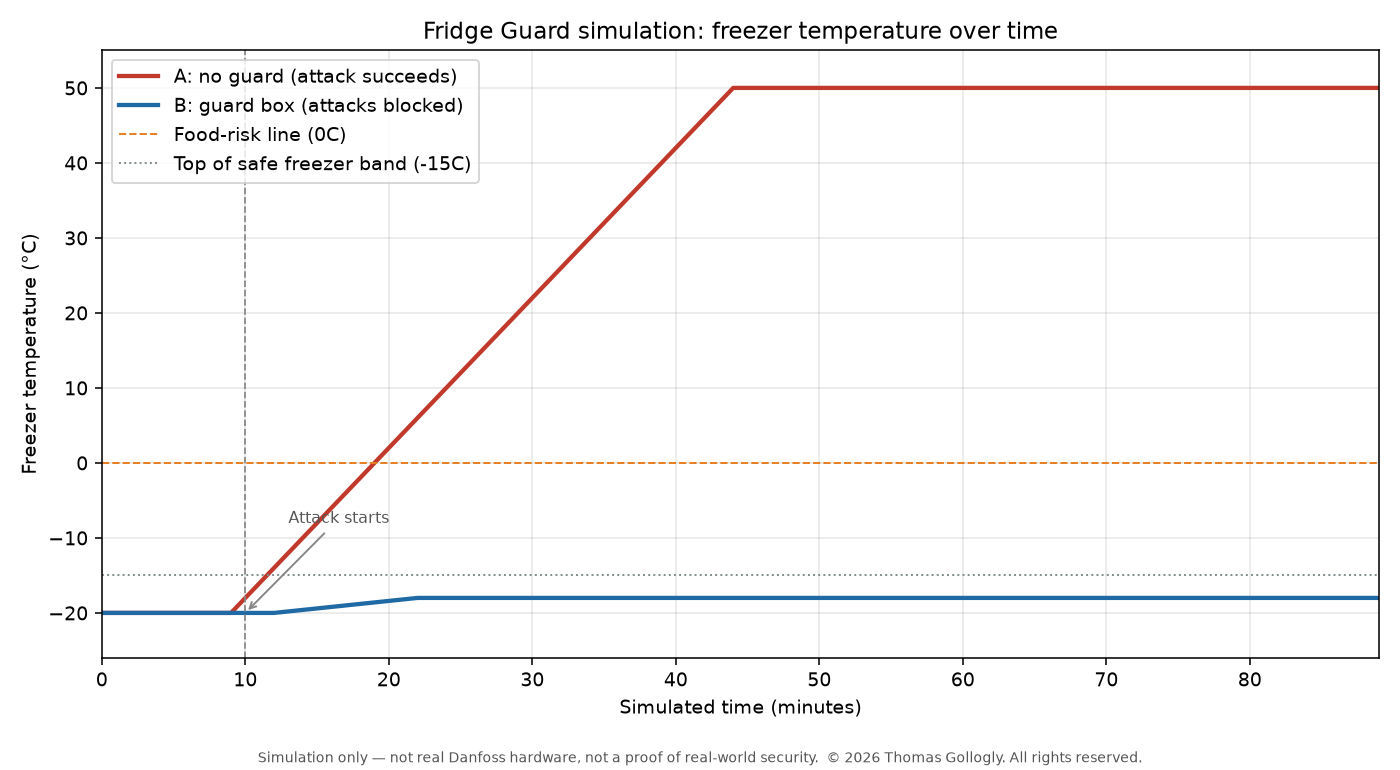
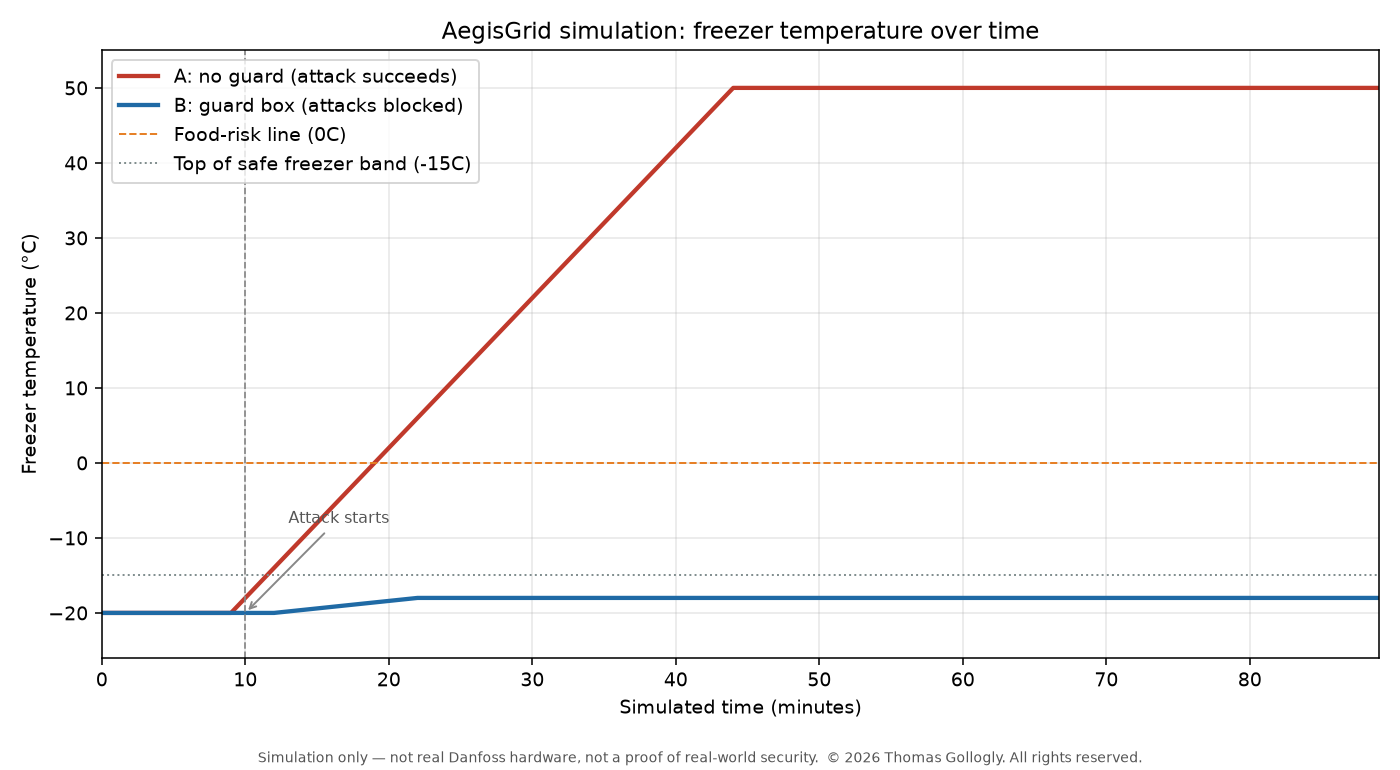
Align freezer sim chart branding with AegisGrid title and footer
Replace the stale checked-in results PNG and update simulation.py title
and copyright footer so future regenerations match the committed asset.

Changed region(s): [[0.3071, 0.0312, 0.7679, 0.0623]]

diff --git a/examples/freezer_hack_sim/simulation.py b/examples/freezer_hack_sim/simulation.py
@@ -242,7 +242,7 @@ def write_chart(a, b, path):
         color="#555555",
         arrowprops=dict(arrowstyle="->", color="#888888"),
     )
-    ax.set_title("AegisGrid freezer hack simulation: freezer temperature over time")
+    ax.set_title("AegisGrid simulation: freezer temperature over time")
     ax.set_xlabel("Simulated time (minutes)")
     ax.set_ylabel("Freezer temperature (°C)")
     ax.set_xlim(0, DURATION_MIN - 1)
@@ -252,7 +252,7 @@ def write_chart(a, b, path):
     fig.text(
         0.5,
         0.01,
-        "Simulation only — not real Danfoss hardware, not a proof of real-world security.",
+        "Simulation only — not real Danfoss hardware, not a proof of real-world security.  © 2026 Thomas Gollogly. All rights reserved.",
         ha="center",
         fontsize=7,
         color="#555555",
